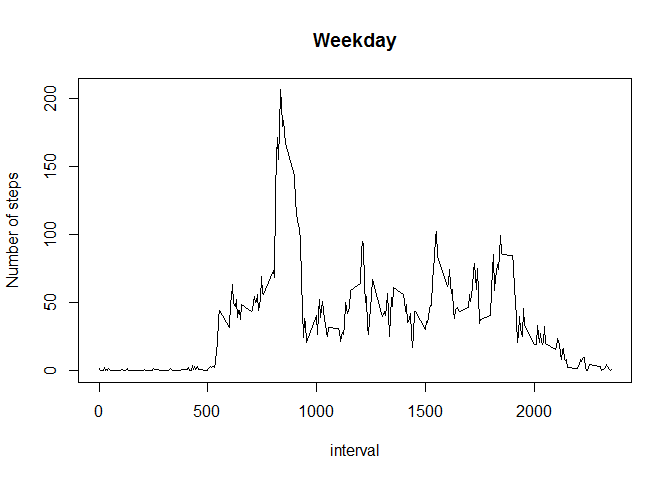
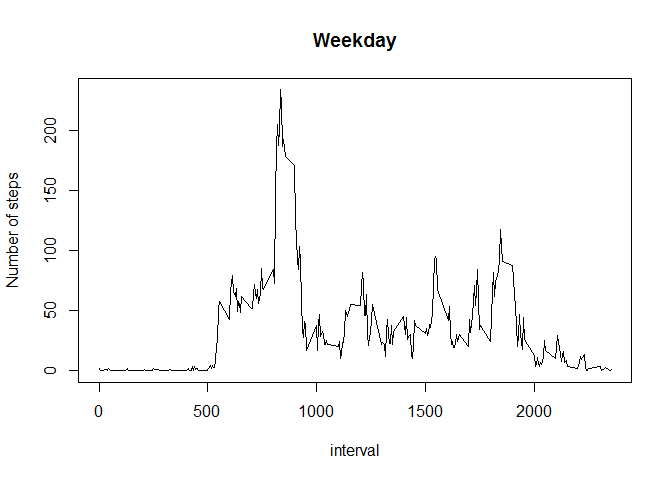
added panel plot

diff --git a/PA1_template.html b/PA1_template.html
@@ -58,6 +58,8 @@ if (window.hljs && document.readyState && document.readyState === "complete") {
 <div id="loading-and-preprocessing-the-data" class="section level2">
 <h2>Loading and preprocessing the data</h2>
 <p>setting <strong>filePath</strong> and reading the table:</p>
+<pre class="r"><code>Sys.setlocale(&quot;LC_ALL&quot;,&quot;eng&quot;)</code></pre>
+<pre><code>## [1] &quot;LC_COLLATE=English_United Kingdom.1252;LC_CTYPE=English_United Kingdom.1252;LC_MONETARY=English_United Kingdom.1252;LC_NUMERIC=C;LC_TIME=English_United Kingdom.1252&quot;</code></pre>
 <pre class="r"><code>filePath &lt;- &quot;activity.csv&quot;
 activity &lt;- read.table(filePath, na.strings='NA', sep=',', header=T, 
                        colClasses=c(&quot;numeric&quot;,&quot;Date&quot;,&quot;numeric&quot;) )</code></pre>
@@ -134,17 +136,22 @@ activity$day[weekdays(activity$date) %in% c(&quot;Saturday&quot;,&quot;Sunday&qu
 # splitting activity by day variable
 activityByDay &lt;-split(activity,activity$day)</code></pre>
 <p>Plotting number of steps depending on day of week</p>
-<pre class="r"><code>plot(aggregate(steps ~ interval, data = activityByDay$weekday,  mean,na.rm = T),
-      type=&quot;l&quot;,
-      main=&quot;Weekend&quot;,
-      ylab=&quot;Number of steps&quot;
-     )</code></pre>
[1 lines of base64/hex data omitted]
-<pre class="r"><code>plot(aggregate(steps ~ interval, data = activityByDay$weekday, mean,na.rm = T),
-  type=&quot;l&quot;,
-  main=&quot;Weekday&quot;,
-  ylab=&quot;Number of steps&quot;)</code></pre>
[1 lines of base64/hex data omitted]
+<pre class="r"><code>library(dplyr)</code></pre>
+<pre><code>## 
+## Attaching package: 'dplyr'
+## 
+## The following object is masked from 'package:stats':
+## 
+##     filter
+## 
+## The following objects are masked from 'package:base':
+## 
+##     intersect, setdiff, setequal, union</code></pre>
+<pre class="r"><code>library(ggplot2)
+activityByDay &lt;- group_by(activity, day,interval)
+activityByDay &lt;-summarise(activityByDay,steps=sum(steps,na.rm=T))
+qplot(interval,steps,data=activityByDay,facets=day~.,geom=&quot;line&quot;)</code></pre>
[1 lines of base64/hex data omitted]
 </div>
 </div>
 

diff --git a/PA1_template.md b/PA1_template.md
@@ -5,6 +5,14 @@
 setting __filePath__ and reading the table:
 
 ```r
+Sys.setlocale("LC_ALL","eng")
+```
+
+```
+## [1] "LC_COLLATE=English_United Kingdom.1252;LC_CTYPE=English_United Kingdom.1252;LC_MONETARY=English_United Kingdom.1252;LC_NUMERIC=C;LC_TIME=English_United Kingdom.1252"
+```
+
+```r
 filePath <- "activity.csv"
 activity <- read.table(filePath, na.strings='NA', sep=',', header=T, 
                        colClasses=c("numeric","Date","numeric") )
@@ -143,23 +151,28 @@ Plotting number of steps depending on day of week
 
 
 ```r
-plot(aggregate(steps ~ interval, data = activityByDay$weekday,  mean,na.rm = T),
-      type="l",
-      main="Weekend",
-      ylab="Number of steps"
-     )
+library(dplyr)
+```
+
+```
+## 
+## Attaching package: 'dplyr'
+## 
+## The following object is masked from 'package:stats':
+## 
+##     filter
+## 
+## The following objects are masked from 'package:base':
+## 
+##     intersect, setdiff, setequal, union
+```
+
+```r
+library(ggplot2)
+activityByDay <- group_by(activity, day,interval)
+activityByDay <-summarise(activityByDay,steps=sum(steps,na.rm=T))
+qplot(interval,steps,data=activityByDay,facets=day~.,geom="line")
 ```
 
 ![](PA1_template_files/figure-html/unnamed-chunk-13-1.png) 
-
-
-```r
-plot(aggregate(steps ~ interval, data = activityByDay$weekday, mean,na.rm = T),
-  type="l",
-  main="Weekday",
-  ylab="Number of steps")
-```
-
-![](PA1_template_files/figure-html/unnamed-chunk-14-1.png) 
-
 
